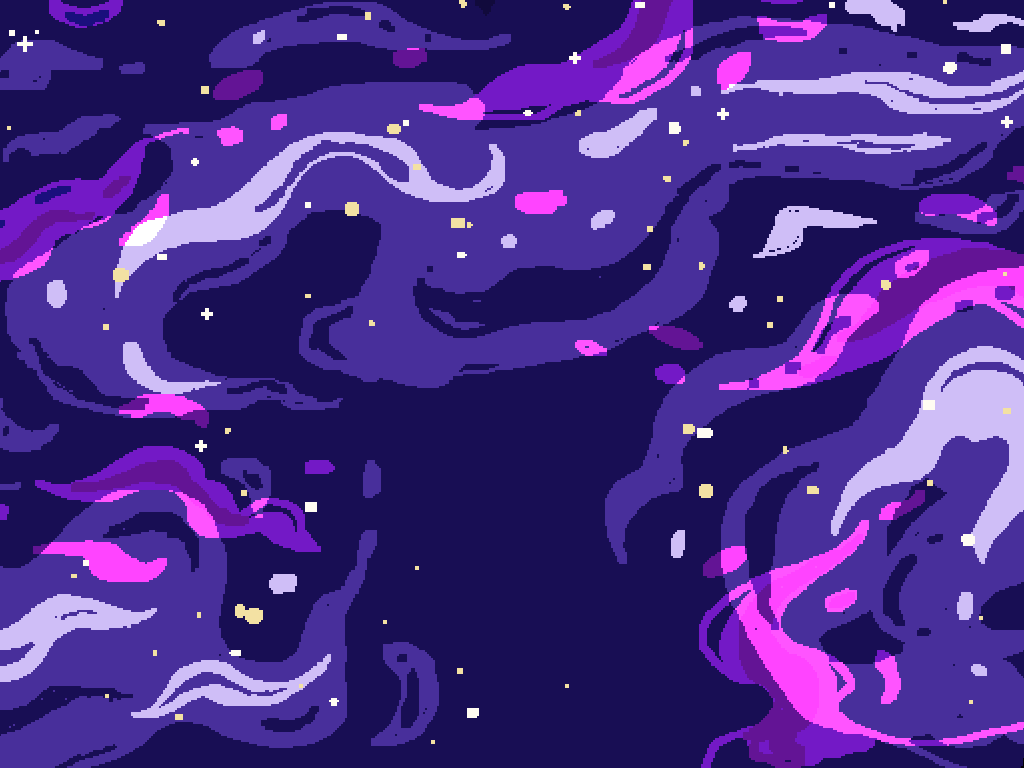
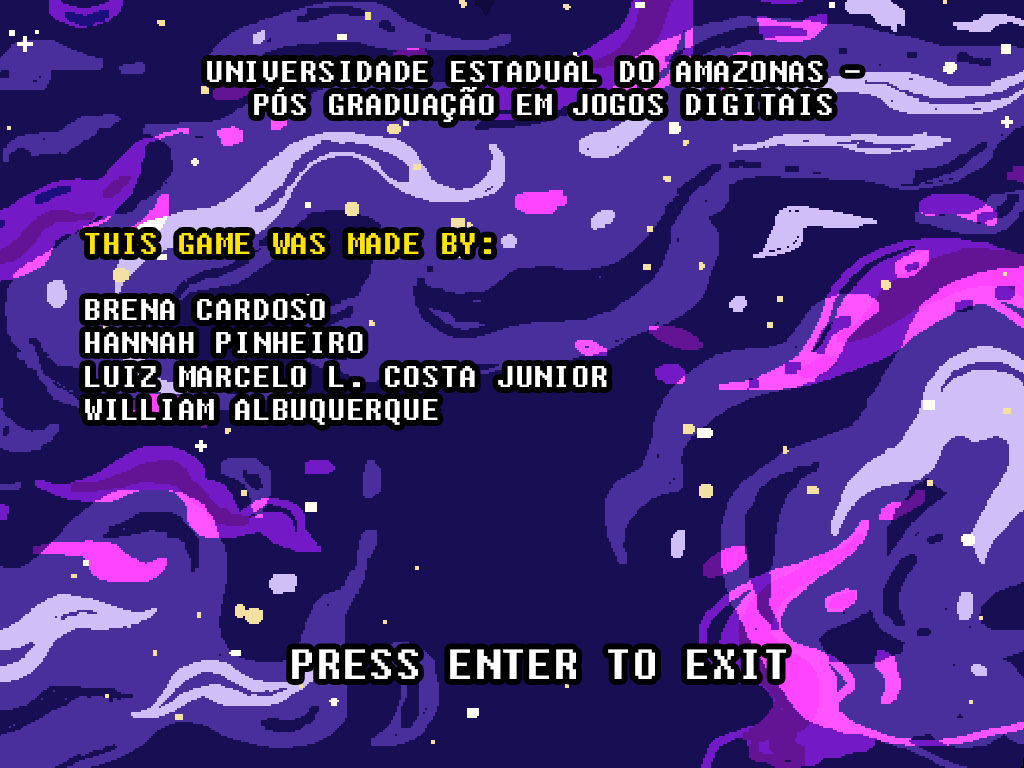
Correção do credits.js

diff --git a/Lost in Asteroids/js/credits.js b/Lost in Asteroids/js/credits.js
@@ -1,0 +1,40 @@
+"use strict"; //sempre começar o arquivo com essa linha
+
+//Atenção sempre: 
+// - Letras maiúsculas e minúsculas: sempre usar os "cases" corretos;
+// - Abrir e fechar parênteses: um esquecimento pode gerar um erro difícil de notar;
+// - Abrir e fechar chaves: mesmo caso anterior
+// - Sempre veja o console no navegador apertando F12 caso algo não funcione como deveria
+
+//Um estado é sempre um objeto JavaScript, com no mínimo as 3 funções principais: preload, create e update
+//As funções sempre começam com NomeDoObjeto.prototype 
+var CreditsState = function(game) {};
+
+CreditsState.prototype.preload = function() 
+{
+    this.game.load.image('creditsImage', 'Assets/images/credits.png');
+    this.game.load.audio('music', 'Assets/sounds/static_motion.ogg');
+}
+
+// create: instanciar e inicializar todos os objetos dessa scene
+CreditsState.prototype.create = function() {
+   
+    this.mainTitle = this.game.add.sprite(0, 0, 'creditsImage');
+    
+    // Capturando tecla enter para uso posterior
+    this.returnKey = this.game.input.keyboard.addKey(Phaser.Keyboard.ENTER);
+    
+    this.music = this.game.add.audio('music');
+    this.music.loop = true;
+    this.music.play();
+    
+}
+
+// update: o que fazer a cada quadro por segundo
+CreditsState.prototype.update = function() {
+    // Detectar se a tecla foi pressionada
+    if(this.returnKey.isDown){
+        this.music.stop();
+        this.game.state.start('title');
+    }
+}

diff --git a/Lost in Asteroids/index.html b/Lost in Asteroids/index.html
@@ -12,7 +12,9 @@
     <script type="text/javascript" src="js/title.js"></script>
     <script type="text/javascript" src="js/win.js"></script>
     <script type="text/javascript" src="js/lose.js"></script>
+    <script type="text/javascript" src="js/credits.js"></script>
     <script type="text/javascript" src="js/main.js"></script>
+    
     
     <!-- Local onde o Phaser vai criar o canvas -->
     <div id="phaser-canvas"></div>

diff --git a/Lost in Asteroids/js/main.js b/Lost in Asteroids/js/main.js
@@ -18,6 +18,7 @@ game.state.add('level2', Level2State);
 game.state.add('title', TitleState);
 game.state.add('win', WinState);
 game.state.add('lose', LoseState);
+game.state.add('credits', CreditsState);
 
 // Iniciando primeiro estado do jogo
 game.state.start('title');

diff --git a/Lost in Asteroids/js/level2.js b/Lost in Asteroids/js/level2.js
@@ -616,7 +616,7 @@ Level2State.prototype.lose = function(){
 
 Level2State.prototype.loadNextLevel = function(){
     this.music.stop();
-    this.game.state.start('level2');
+    this.game.state.start('credits');
 }
 
 
